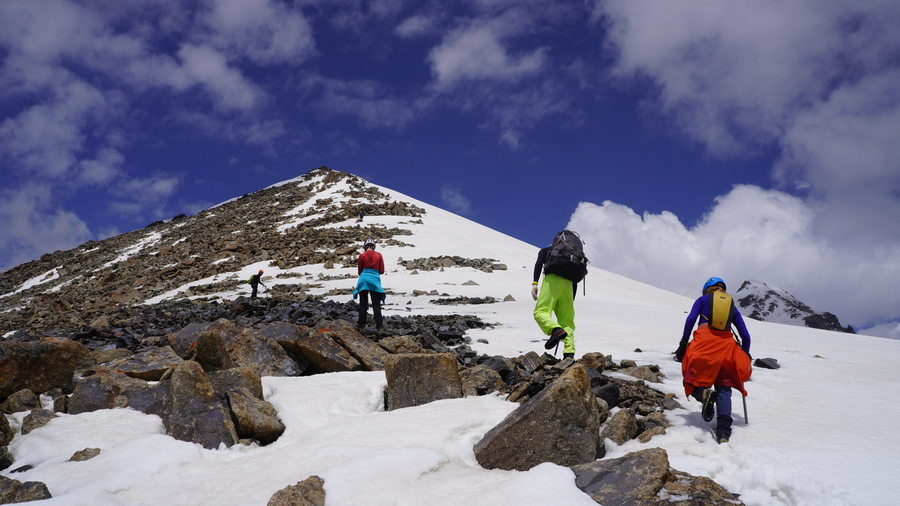
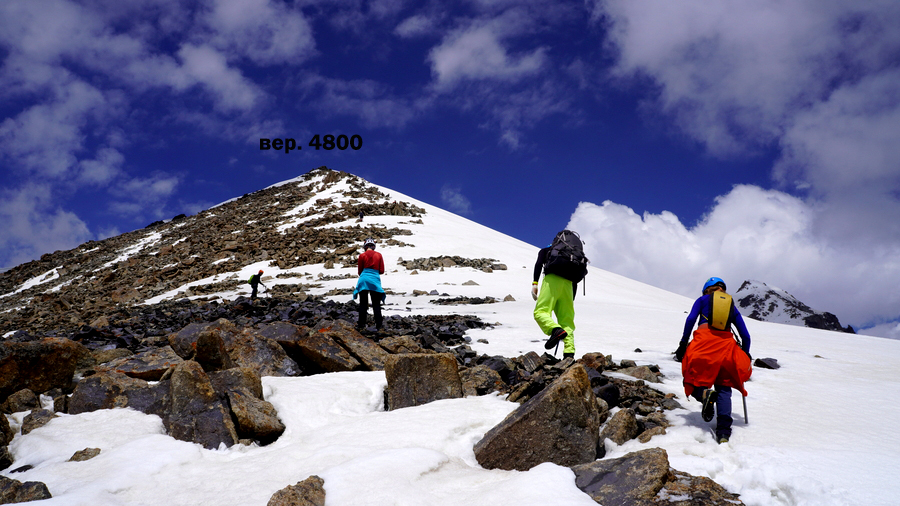
комментарий

diff --git a/index.html b/index.html
@@ -657,6 +657,7 @@
     <div class="photo" data-file="photo/2/DSC09400.JPG" data-name="По пути к верхним озерам"></div>
     <div class="photo" data-file="photo/2/DSC09440.JPG" data-name="Лагерь 3-4"></div>
 	<div class="photo" data-file="photo/2/DSC09454.JPG" data-name="Лагерь на озерах Дамджайлоо. Вид сверху"></div>
+	<div class="photo" data-file="photo/2/DSC09578.JPG" data-name="Акклиматизационная прогулка. Вид в сторону пер. Вспомогательный"></div>
 </div>
 <p>
     <span class="day">27 июля</span>
@@ -667,13 +668,19 @@
 Взобравшись на вершину и полюбовавшись видами, решаем, что идти на перевал Больших Спортсменов не хочется и скорее повредит акклиматизации.
 Спускаемся по пути подъема. Решение было верным: после спуска силы куда-то ушли, и последний километр до лагеря мы шли очень медленно и печально.
 <div class="photo-block">
-    <div class="photo" data-file="photo/3/DSC09595.JPG" data-name="Идем вдоль озера"></div>
-    <div class="photo" data-file="photo/3/DSC09622.JPG" data-name="Перевал Вспомогательный, вид с востока"></div>
-    <div class="photo" data-file="photo/3/DSC09687.JPG" data-name="Выход на перевал Вспомогательный и путь к вершине 3800 м"></div>
-    <div class="photo" data-file="photo/3/DSC09793.JPG" data-name="Движение по гребню"></div>
-    <div class="photo" data-file="photo/3/DSC09832.JPG" data-name="Движение по гребню"></div>
-    <div class="photo" data-file="photo/3/DSC09834.JPG" data-name="Выход на вершину 3800 м"></div>
-    <div class="photo" data-file="photo/3/DSC09896.JPG" data-name="Вид на озеро и лагерь 3-4"></div>
+    <div class="photo" data-file="photo/3/DSC09597.JPG" data-name="Идем вдоль озера"></div>
+	<div class="photo" data-file="photo/3/DSC09603.JPG" data-name="Путь к пер. Вспомогательный"></div>
+    <div class="photo" data-file="photo/3/DSC09622.JPG" data-name="Пер. Вспомогательный, вид с востока"></div>
+	<div class="photo" data-file="photo/3/DSC09655.JPG" data-name="Подъем на пер. Вспомогательный"></div>
+    <div class="photo" data-file="photo/3/DSC09687.JPG" data-name="Выход на пер. Вспомогательный и путь к вершине 4800 м"></div>
+	<div class="photo" data-file="photo/3/DSC09750.JPG" data-name="Группа на пер. Вспомогательный"></div>
+	<div class="photo" data-file="photo/3/DSC09793.JPG" data-name="Движение по гребню в сторону вершины 4800"></div>
+    <div class="photo" data-file="photo/3/DSC09833.JPG" data-name="Движение по гребню. Вид в сторону озер Дамджайло"></div>
+    <div class="photo" data-file="photo/3/DSC09824.JPG" data-name="Выход на вершину 4800 м"></div>
+	<div class="photo" data-file="photo/3/DSC09120.JPG" data-name="Группа на вершине 4800 м"></div>
+	<div class="photo" data-file="photo/3/DSC09877.JPG" data-name="Спуск с пер. Вспомогательный на три такта"></div>
+	<div class="photo" data-file="photo/3/DSC09899.JPG" data-name="Возвращаемся в лагерь 3-4"></div>
+	
 </div>
 
 <p>
